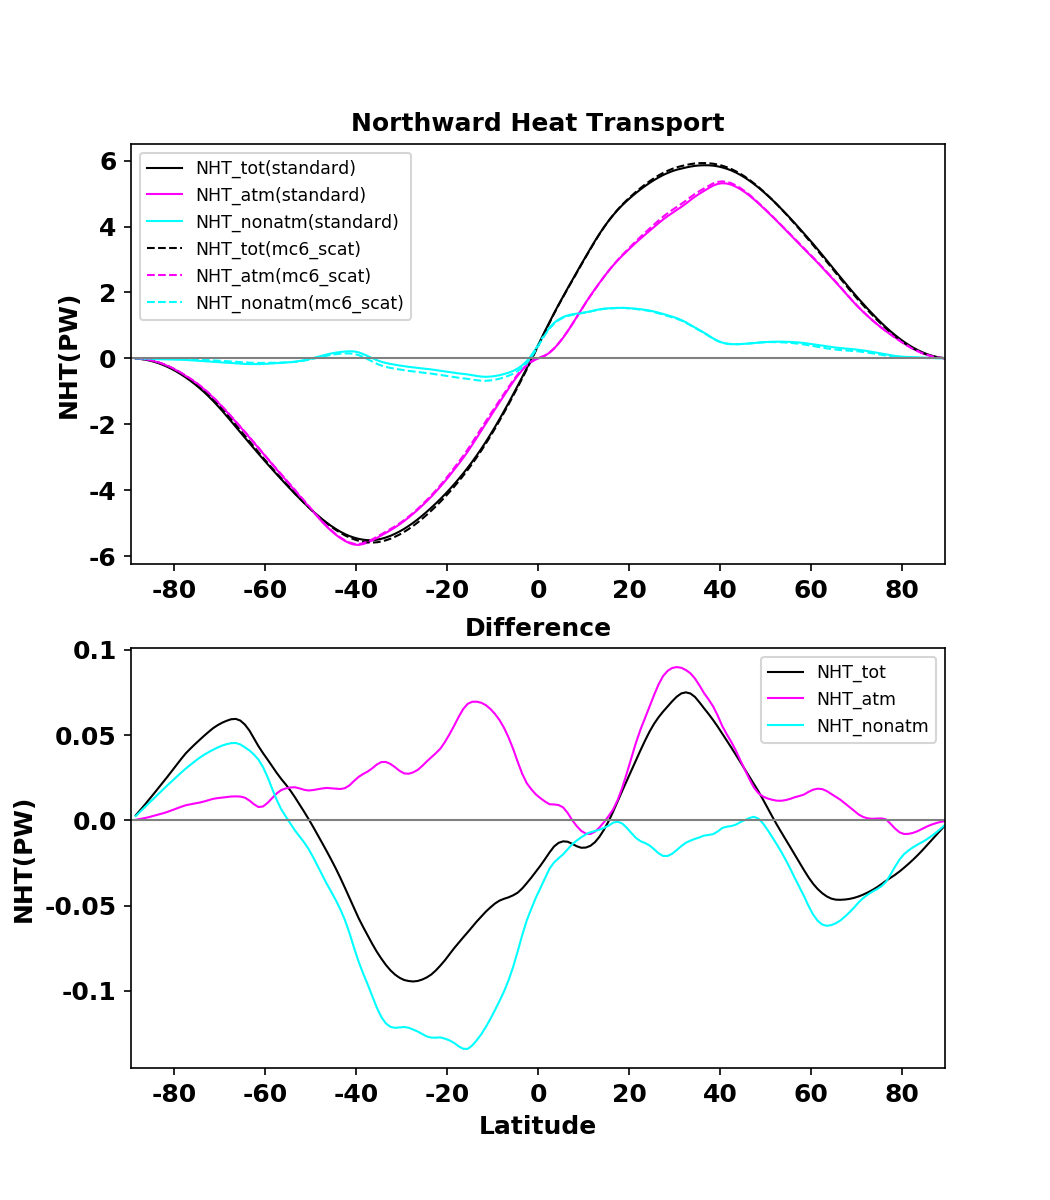
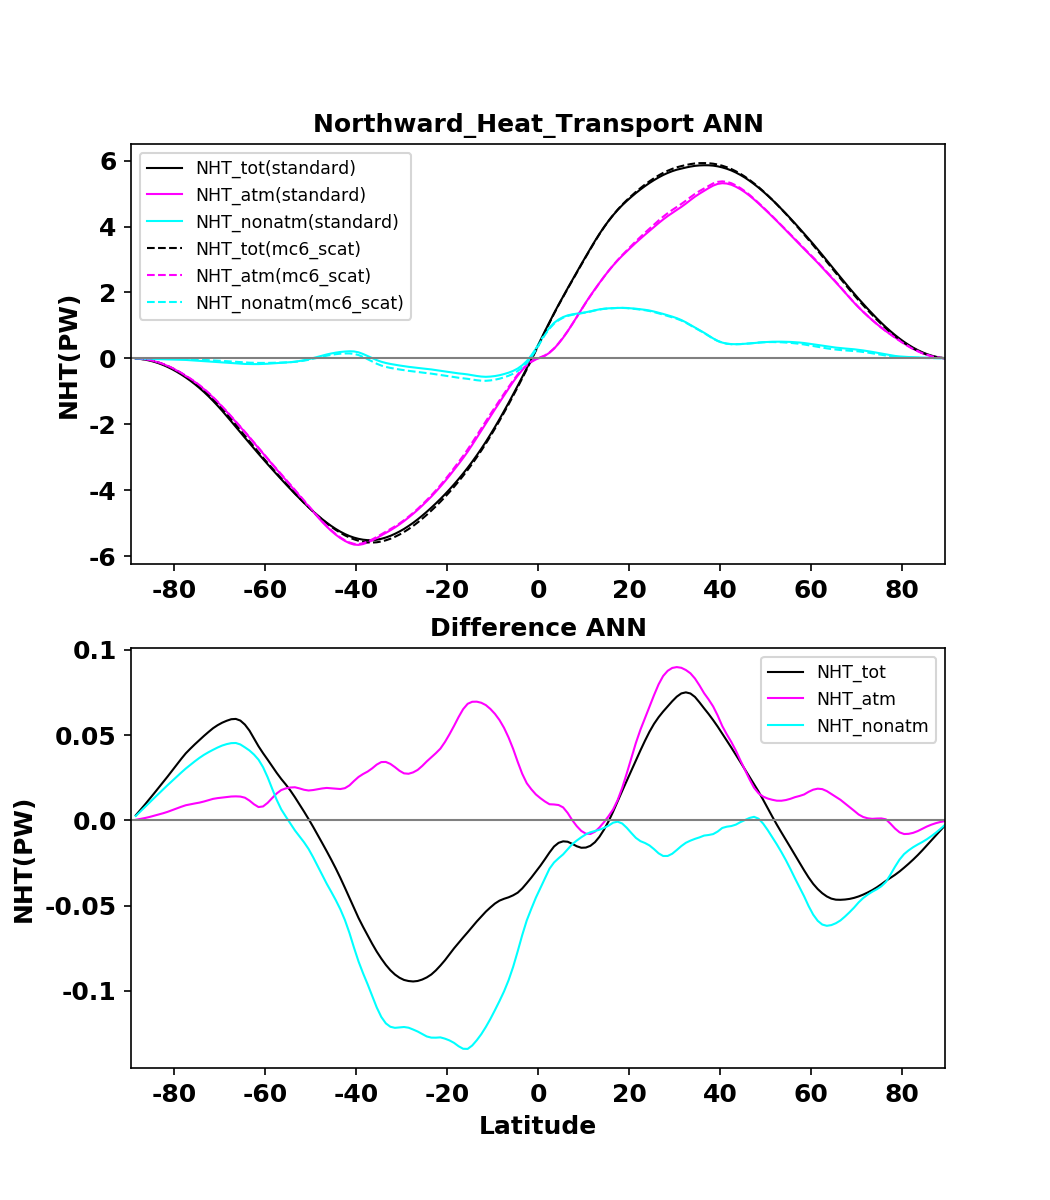
add season on d3

Changed region(s): [[0.3048, 0.0925, 0.7314, 0.1233], [0.3962, 0.4933, 0.6095, 0.555]]

diff --git a/d3_northw_energy_transport_model_vs_model.py b/d3_northw_energy_transport_model_vs_model.py
@@ -157,8 +157,8 @@ def northw_energy_transport_model_vs_model(season):
     ax2.set_xlim(-89.5,89.5)
     #ax1.set_ylim(-7.9,7.9)
     # titles
-    ax1.set_title("Northward Heat Transport",fontsize=12,fontweight='bold')
-    ax2.set_title("Difference",fontsize=12,fontweight='bold')
+    ax1.set_title("Northward_Heat_Transport "+season,fontsize=12,fontweight='bold')
+    ax2.set_title("Difference "+season,fontsize=12,fontweight='bold')
     #ax1.set_xlabel("Latitude",fontsize=12,fontweight='bold')
     ax2.set_xlabel("Latitude",fontsize=12,fontweight='bold')
     ax1.set_ylabel("NHT(PW)",fontsize=12,fontweight='bold')
